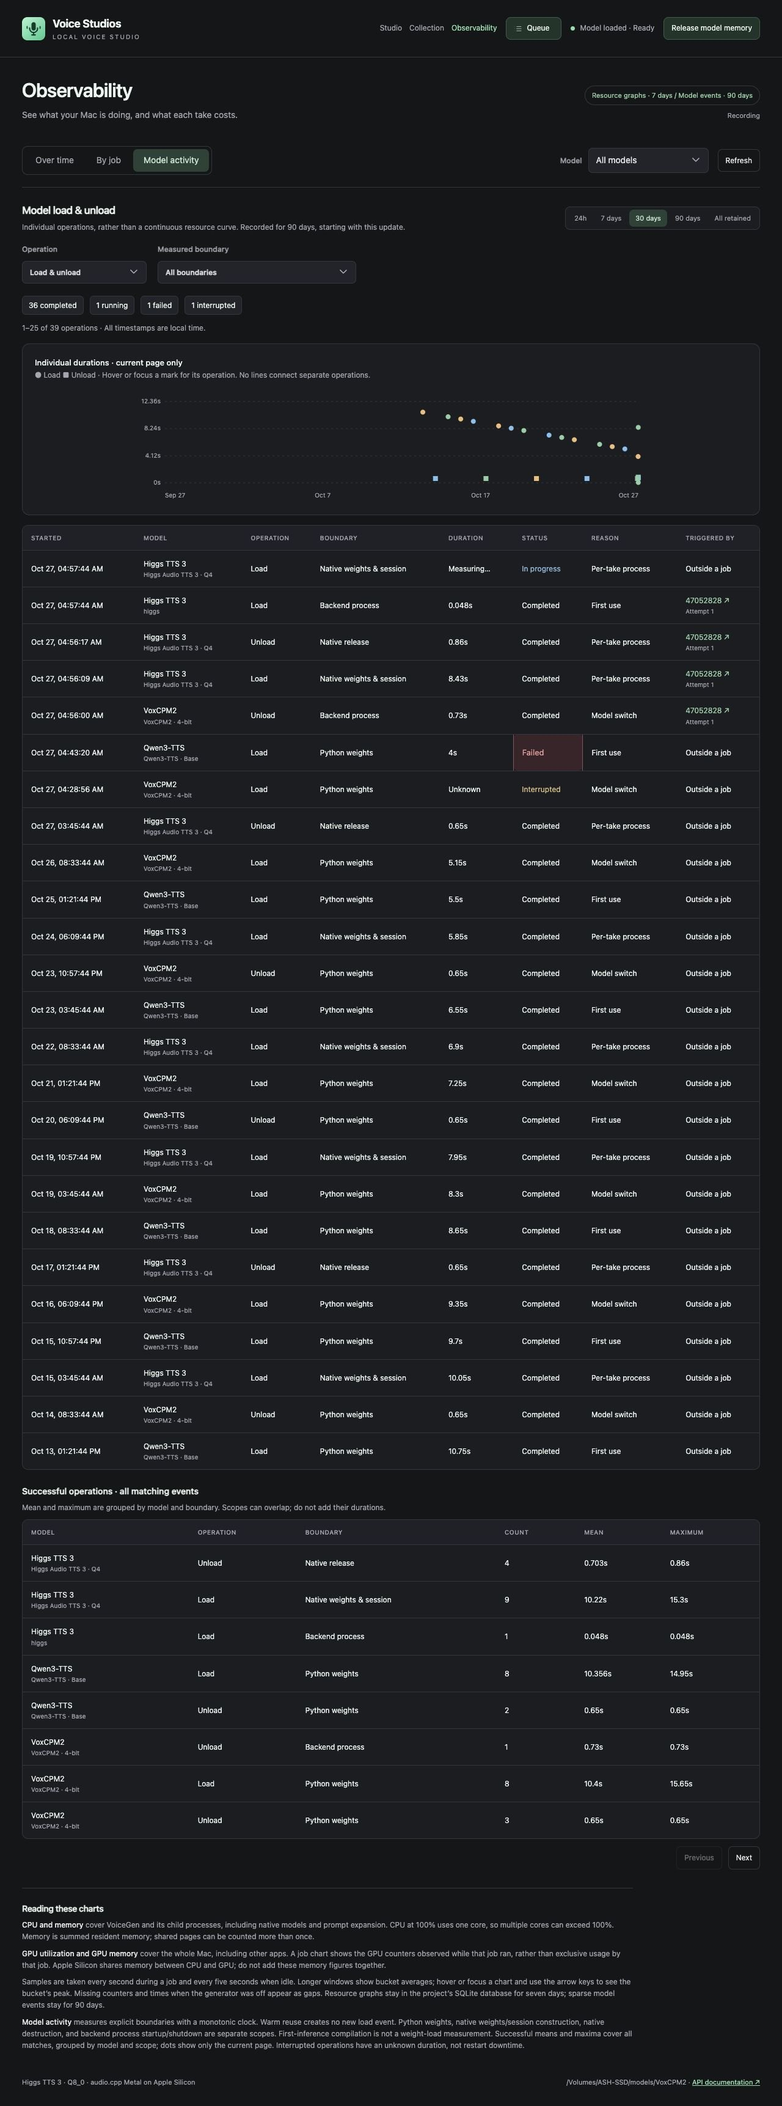
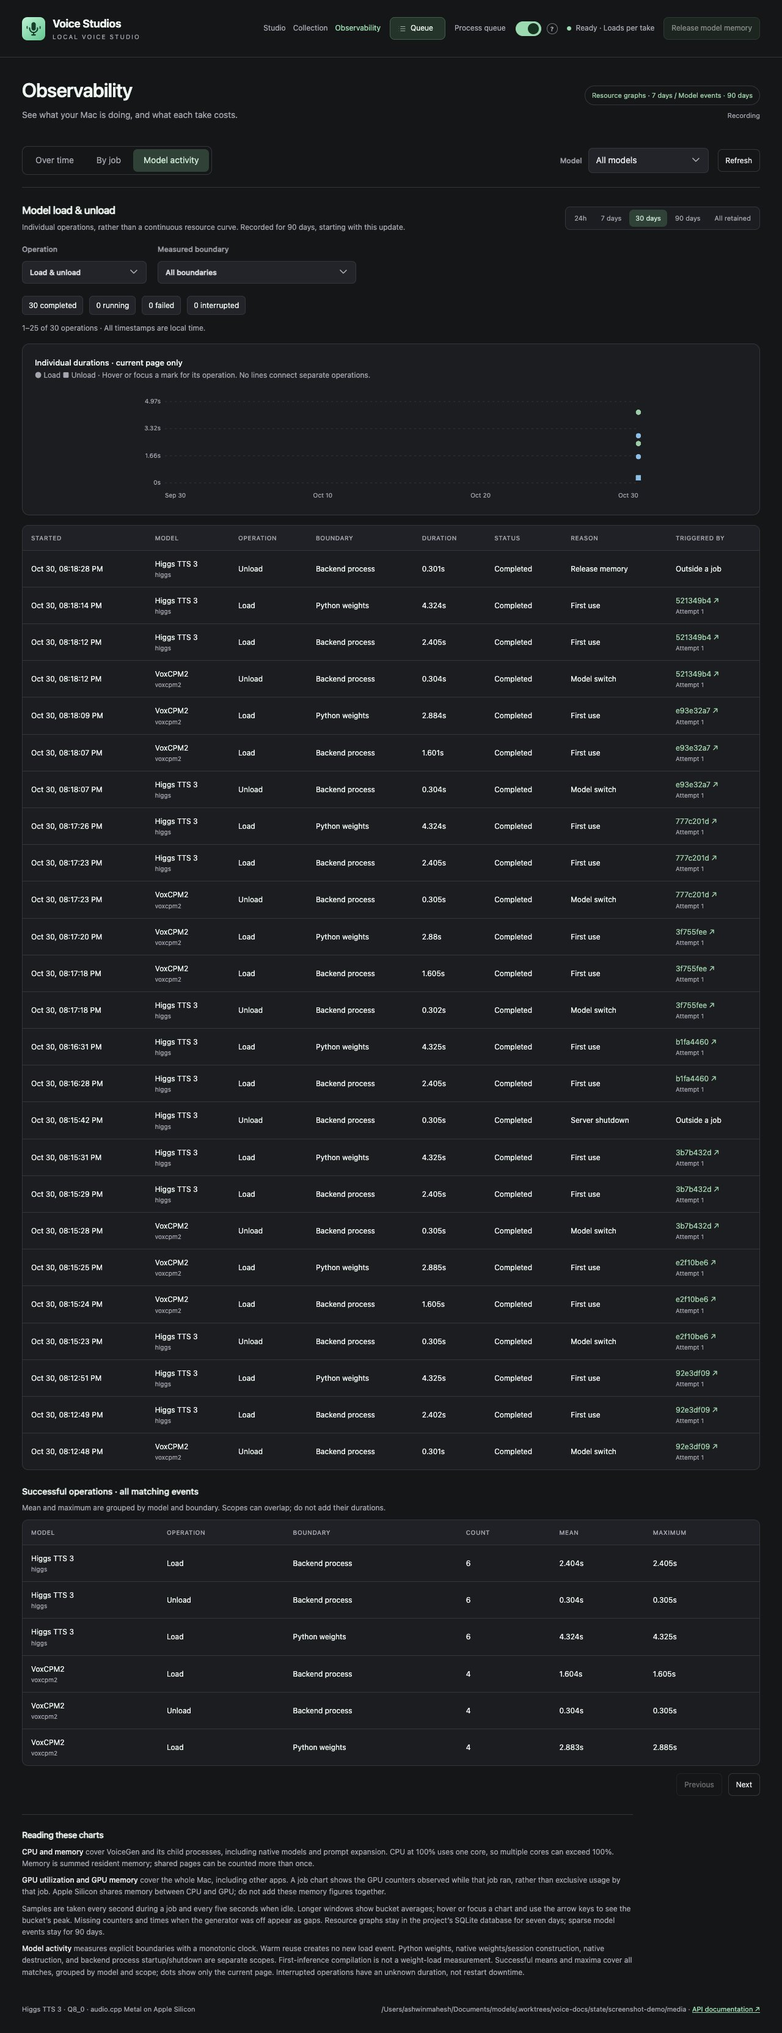
Refresh README, Quick Start and screenshots for today's Studio changes
Describe estimated progress, the shared header's Process queue switch
and Release model memory state, Collection rows with the trash icon,
voice names on History takes and queue rows, and the queue window's icon
actions and header. Shorten the README's studio tour. Regenerate the
README screenshots from a fixture run with a fake speech engine.

diff --git a/QUICKSTART.md b/QUICKSTART.md
@@ -68,24 +68,26 @@ To create a new voice from a description, choose a set-up VoxCPM2, Qwen3-TTS, or
 1. **Choose a voice.** Open **Record lines** and use **Voice source** to select **Saved voice** or **Upload reference audio**. Built-in speakers are another source when a suitable Qwen model is set up. For Higgs, use a saved or uploaded recording. Uploads must be 1–30 seconds and at most 25 MiB. Browse voice catalog opens Collection in a separate tab, keeping your recording form open.
 2. **Enter the exact reference transcript.** These are the words already spoken in the recording, separate from your new dialogue. Uploaded voices can fill them automatically; review and correct the detected words. Higgs and Fish require it. For a saved voice, choose **Save transcript to voice**, or select Generate to save your edit automatically before submitting. The transcript remains after generation and reloads with the voice.
 3. **Enter the new dialogue.** Start with a short passage so you can judge the voice, accent, and delivery.
-4. **Choose the performance settings.** Higgs shows **Emotion**, **Prosody**, and **Style** above the dialogue. It takes its accent from the recording; free-text accent directions are unsupported. Vox Auto allows new text directions and switches to flexible conditioning when used. Enter an **Emotion & delivery** direction to enable its expansion preview. With no new directions and an exact transcript, Auto follows the recording instead. Combined and Continue performance keep direction fields disabled. Disabled fields have a lighter grey background and a brief reason as their placeholder when empty. Existing values are kept. Helper text gives the full reason and a supported alternative. [See the disabled fields](docs/images/disabled-fields.jpg). Hover over a grey **?** icon for an explanation, focus it with the keyboard, or tap it on a phone. Expand **Advanced settings** for additional options.
+4. **Choose the performance settings.** Higgs shows **Emotion**, **Prosody**, and **Style** above the dialogue. It takes its accent from the recording; free-text accent directions are unsupported. Vox Auto allows new text directions and switches to flexible conditioning when used. Enter an **Emotion & delivery** direction to enable its expansion preview. With no new directions and an exact transcript, Auto follows the recording instead. Combined and Continue performance keep direction fields disabled. Disabled fields show a short reason and keep their values; helper text suggests a supported alternative ([example](docs/images/disabled-fields.jpg)). Hover over a grey **?** icon for an explanation, focus it with the keyboard, or tap it on a phone. Expand **Advanced settings** for additional options.
 5. **Try prompt expansion if available.** With the switch on, select **Preview expanded guidance**, review it, and apply it or keep your original. Higgs instead offers **Suggest delivery control**: enter a short acting direction such as “quietly amused” or “more expressive intonation” to suggest one native Emotion, Prosody, or Style setting. The preview shows your written direction. If nothing changes, Apply is disabled and the preview explains how to proceed. For supported batches of different voice designs, the LLM can refine each option automatically.
 6. **Choose 1–5 options** and select **Generate speech**. The default is two. Every new click chooses a fresh random base seed; each option shows its actual seed. For a fixed seed, turn off **Advanced settings → Random seed each generation** and enter a number. [View the seed controls](docs/images/random-seed-settings.jpg). With Higgs or another recorded voice, options are alternative takes of the same speaker. Supported voice-design modes can explore different descriptions.
-7. **Listen and save.** Elapsed time appears below Generate and in the Listening room. It ticks every second, including time waiting, continues through all options in a batch, and stops at the final duration. Reloads retain that timing. Download a take or choose **Save voice** to reuse it for more lines. Complete takes of at most 30 seconds automatically supply their spoken line as the saved transcript, without performance tags. Longer or potentially cut-off takes need the exact words in the saved excerpt.
+7. **Listen and save.** While a take renders, the Listening room shows an estimated percentage and time left, such as “~62% · about 1 min left”, based on how long recent takes of the same model took. Elapsed time appears below Generate and in the Listening room. It ticks every second, including time waiting, continues through all options in a batch, and stops at the final duration. Reloads retain that timing. Download a take or choose **Save voice** to reuse it for more lines. Complete takes of at most 30 seconds automatically supply their spoken line as the saved transcript, without performance tags. Longer or potentially cut-off takes need the exact words in the saved excerpt.
 
 For Higgs, new UI settings use a **2,000-token Audio limit**. Existing saved settings keep their value; use **Advanced settings → Apply recommended defaults** to update them. If one option reports “reached max_tokens before EOC,” its audio did not finish. Keep the successful option and choose **Use higher audio limit** on the failed card to prepare one replacement. Retry alone keeps the old limit. For longer passages, a smaller **Higgs text chunk size**, such as 400 characters, can reduce the budget needed per chunk; it can also change delivery.
 
-Prompt expansion uses the separate local Qwen3.5-2B LLM, with rules tailored to each speech model. It sees written voice and delivery directions, not your dialogue, reference transcript, or audio. Some modes do not support it. See [voice quality tips](VOICE_QUALITY.md) for choosing references and balancing expression against accent and voice consistency.
+See [voice quality tips](VOICE_QUALITY.md) for choosing references and balancing expression against accent and voice consistency.
 
 You can visit Collection or Observability, close the tab, or reload while a recording is running. A recording strip shows progress on each page; choose **Return to recording**, or **Listen to recording** after it finishes. These links go directly to the listening room, including on a phone. Your batch, selected option, model, form and elapsed time are restored; the selected take is marked **Selected**. Temporary connection problems retry automatically, with **Reconnect now** available, without submitting another recording. Use **Resources & logs** on an option or selected take, then **Return to recording** to get back. A queued take shows a waiting message until resource sampling starts.
 
 For Higgs, search the **Emotion**, **Prosody**, and **Style** inputs and select an option with the mouse or arrow keys and Enter. You can also type a direction such as “Speak in a hushed whisper,” click **Suggest control**, review it, and **Apply control**. Or use **Delivery direction** below to suggest a change alongside your selected controls. Suggestions require Prompt expansion to be on and preserve the other categories. Empty inputs follow the recording. Turning expansion off keeps selected native controls and pauses unresolved custom drafts; turning it back on restores those drafts. Higgs supports a fixed tag vocabulary, so a direction may have no matching option.
 
-Open **Collection** to start in **Voice library**, the left tab. Name, describe, tag, and search your voices there. **Upload voice** transcribes a 1–30 second recording locally before saving. Play it back, correct the detected words, then save the voice. Turn **Automatically transcribe** off to enter the words yourself. Existing installations can add the small transcriber with `make setup-transcriber`; new `make setup` includes it. **History** shows generated takes. Click the Voice Studios icon, title, or subtitle at the top left to return to Studio.
+Open **Collection** to start in **Voice library**, the left tab. Name, describe, tag, and search your voices there. **Upload voice** transcribes a 1–30 second recording locally before saving. Play it back, correct the detected words, then save the voice. Turn **Automatically transcribe** off to enter the words yourself. Existing installations can add the small transcriber with `make setup-transcriber`; new `make setup` includes it. **History** shows generated takes, each labelled with its voice: the saved voice's name, “Uploaded voice”, or “Designed voice”. Each entry is a single row with its player and buttons on one line. Click the Voice Studios icon, title, or subtitle at the top left to return to Studio.
 
-To remove a voice or take, choose its **Delete** button, check the item named in the confirmation popup, and confirm **Delete**. Cancel or Escape keeps it. Turn on the **Show deleted** switch and choose **Restore** within 24 hours to bring an entry back. After that, the generator automatically removes its files from disk. If the generator is off, cleanup resumes next time you start it; unfinished jobs can delay removal. Copies saved separately as other voices or takes are kept. See [retention details](docs/collection-retention.md).
+To remove a voice or take, choose its trash icon (**Delete**), check the item named in the confirmation popup, and confirm **Delete**. Cancel or Escape keeps it. Turn on the **Show deleted** switch and choose **Restore** within 24 hours to bring an entry back. After that, the generator automatically removes its files from disk. If the generator is off, cleanup resumes next time you start it; unfinished jobs can delay removal. Copies saved separately as other voices or takes are kept. See [retention details](docs/collection-retention.md).
 
-Open **Queue** in the header to monitor progress. Drag a left-side handle to reorder waiting jobs, or focus it and use the up/down arrow keys. **Run Now** moves a waiting job first, ahead of other immediate jobs; the current batch finishes before it starts. The **Generate immediately** switch is on by default: your request runs next after the active batch, ahead of ordinary waiting jobs, and Generate stays busy until your options finish. Turn the switch off to submit more work to the normal queue. It does not change jobs already submitted or interrupt work running. Pending jobs survive restarts. The generator switches models automatically; a missing model stays blocked with a setup hint while other work continues. **Pause queue** holds normal waiting work; immediate jobs can still run.
+Open **Queue** in the header to monitor progress. Each row shows its model, voice, and the running take's estimated percentage. Row actions are icon buttons; hover or focus one to see its name (Monitor, Run Now, Remove, View all options, or Resources & logs). Drag a left-side handle to reorder waiting jobs (the row lifts as you drag), or focus it and use the up/down arrow keys. **Run Now** moves a waiting job first, ahead of other immediate jobs; the current batch finishes before it starts. The **Generate immediately** switch is on by default: your request runs next after the active batch, ahead of ordinary waiting jobs, and Generate stays busy until your options finish. Turn the switch off to submit more work to the normal queue. It does not change jobs already submitted or interrupt work running. Pending jobs survive restarts. The generator switches models automatically; a missing model stays blocked with a setup hint while other work continues. To pause, switch off **Process queue** in the page header or the Queue window's header (beside the amber **Clear pending** button and **×**). The current take finishes and normal waiting work stays saved; **Generate immediately** and **Run Now** jobs still run.
+
+**Release model memory** in the header unloads the speech model between sessions. It is greyed out while a take is generating, and when no model is loaded (its tooltip says “No model loaded”). The next take loads the model again.
 
 ### Check resource use
 
@@ -137,7 +139,7 @@ HTTP 202 means the job was saved. Copy the returned job `id` and check it:
 curl --fail-with-body http://localhost:5743/api/jobs/JOB_ID_HERE
 ```
 
-Wait for `status` to become `done`. If it becomes `error`, read the `error` field. A finished job includes `result.audio_url` for playback and `result.id` for the output. Replace `OUTPUT_ID_HERE` with that output ID to download:
+Wait for `status` to become `done`; while it runs, `progress.percent` and `progress.eta_seconds` give the estimate. If it becomes `error`, read the `error` field. A finished job includes `result.audio_url` for playback and `result.id` for the output. Replace `OUTPUT_ID_HERE` with that output ID to download:
 
 ```sh
 curl --fail-with-body \

diff --git a/README.md b/README.md
@@ -8,56 +8,32 @@ The studio supports **seven speech models**, with **Higgs TTS 3 as the default**
 
 ## Inside the studio
 
-Studio, Collection, and Observability share the same navigation, Queue button, service status, and memory-release control.
+Studio, Collection, and Observability share one header: navigation, **Queue**, a **Process queue** switch, the service status, and **Release model memory**, which is greyed out with a “No model loaded” tooltip when there is nothing to release. Click the Voice Studios name to return to Studio. Screenshots use benign demonstration records and fake inference; percentages and timings are not model benchmarks.
 
-Click the Voice Studios icon, title, or subtitle in the header to return to Studio.
+**Studio:** use **Design a voice** to create a character from a description, or **Record lines** to reuse a saved voice, an uploaded recording, or a built-in speaker. Enter the dialogue, direct the performance with the model's own controls, and generate 1–5 options to compare. While a take renders, the listening room shows an estimated percentage and time left, such as “~62% · about 1 min left”, based on how long recent takes of the same model took. A recording strip keeps that progress visible on other pages, and returning restores your batch and chosen option. [See the return flow](docs/recording-return-ux.md).
 
-Screenshots use benign demonstration records and fake inference; displayed timings are not model benchmarks.
+![Studio with a saved Higgs voice: option 1 is ready and option 2 is generating](docs/images/studio-page.jpg)
 
-**Generate:** choose or design a voice, enter dialogue, direct the performance, and audition the results.
+**Collection:** **Voice library** holds saved and uploaded voices with names, descriptions, and searchable tags; **History** holds generated takes, each labelled with the voice it used. Every entry is a row with its player and actions on one line. The trash icon deletes an entry after a [confirmation](docs/images/collection-delete-confirmation.jpg), and **Show deleted** lets you restore it within 24 hours; after that its files are removed. Uploaded voices are [transcribed locally](docs/transcription.md). See [retention and shared copies](docs/collection-retention.md).
 
-Use **Design a voice** to create a character, or **Record lines** to reuse one. Record lines has a **Voice source** menu for saved voices, uploaded reference audio, and built-in speakers when available. Browse voice catalog opens your Collection in a new tab so your recording form stays open.
+![Collection voice library with four demonstration voices](docs/images/collection-page.jpg)
 
-An elapsed timer below Generate and in the Listening room updates every second through waiting and generation, then keeps the final duration. Reference transcripts stay with saved voices; you can save an edit directly or let Generate save it before submitting. Higgs has searchable Emotion, Prosody, and Style inputs. Choose an option, or type a custom direction and preview a supported control with the local LLM. Accent comes from the reference recording.
+**Queue:** each row shows its model, the voice (a saved voice's name, “Uploaded voice”, or “Designed voice”), and the running take's estimated progress. Row actions are icon buttons (Monitor, Run Now, Remove, and others) that name themselves on hover. Drag a row by its handle to reorder waiting jobs; it lifts while you drag. Like Image Studio, the window's header has a **Process queue** switch, an amber **Clear pending** button, and **×** to close. **Generate immediately**, on by default, runs your request right after the current take. Switching off **Process queue** holds ordinary waiting work; **Generate immediately** and **Run Now** jobs still run.
 
-A recording strip keeps progress visible while you browse Collection or Observability, then offers **Listen to recording** when it finishes. Returning restores your batch, selected option, and elapsed time; on a phone, the return link goes straight to the listening room. Temporary connection losses reconnect automatically. Each option has **Resources & logs**. [See the return flow](docs/recording-return-ux.md).
+![Queue window with a running take's progress and waiting jobs for several voices](docs/images/queue-modal.jpg)
 
-Higgs starts new UI settings with a 2,000-token audio limit. If one option cannot finish within its limit, the others stay available; the failed card can prepare a single replacement with a higher limit. Advanced settings also offer native text chunk size for longer passages.
+**Observability:** chart CPU, memory, and GPU use over windows from five minutes to seven days, filter by model, or inspect one job's resources and logs. GPU figures cover the whole Mac. **Model activity** keeps 90 days of model load and unload durations. [What the measurements mean](docs/observability.md).
 
-**Design a voice** stays visible when the current model needs a recording, such as Higgs. Open it and choose a set-up VoxCPM2, Qwen3-TTS, or MOSS VoiceGenerator from the model menu. If none is set up, the tab stays disabled and its tooltip lists those alternatives.
-
-![Full Generate page with Higgs performance controls and audio playback](docs/images/studio-page.jpg)
-
-**Collection:** browse previous takes or save and upload voices with names, descriptions, and searchable tags. Search, tag selection, sort order, and page size share a compact row; search and select existing tags to find voices matching any of them.
-
-Uploaded voices are transcribed locally with a small CPU model. Listen, correct the detected words, and save them with the voice; automatic transcription can also be switched off. [Upload transcription](docs/transcription.md) explains setup and API use.
-
-Voice library appears first and opens by default; History holds your generated takes. Both offer **Delete** with a confirmation popup. Use the **Show deleted** switch and **Restore** within 24 hours to bring an entry back. After 24 hours, the generator automatically removes its audio and metadata from disk. Cleanup waits for unfinished jobs that still need the recording. [Retention and shared copies](docs/collection-retention.md).
-
-[View the deletion confirmation](docs/images/collection-delete-confirmation.jpg).
-
-![Full Collection page with a saved voice, search, and tags](docs/images/collection-page.jpg)
-
-**Queue:** drag waiting jobs into order, choose **Run Now** to run one next, monitor progress, or remove pending work. Running takes show an estimated percentage (for example ~62%) based on how long recent takes of the same model took, in the queue and in the listening room. The studio's default **Generate immediately** switch runs next after the current take and keeps Generate busy until your options finish. Turn it off to keep adding ordinary queued jobs. To pause the queue, switch off **Process queue** in the header. The current take finishes, then waiting jobs stay saved until you switch it back on. **Generate immediately** and **Run Now** jobs still run while paused.
-
-![Full page with the Queue modal open](docs/images/queue-modal.jpg)
-
-**Observability:** chart CPU, memory, and GPU usage over time, filter by model, or inspect a job's resource use. Choose windows from five minutes to seven days. History is saved automatically while the generator runs; GPU figures cover the whole Mac. Each job view also shows sampled stages and any retained generation log. **Model activity** keeps a separate 90-day history of model load/unload durations, with individual events, filters, and job links.
-
-![Full Observability page with demonstration resource history](docs/images/observability-page.jpg)
+![Observability with demonstration resource history](docs/images/observability-page.jpg)
 
 <details>
 <summary>Model load and unload history</summary>
 
-![Full Model activity page with demonstration timing events](docs/images/model-activity.jpg)
+![Model activity with demonstration timing events](docs/images/model-activity.jpg)
 
 </details>
 
-Screenshots use demo data. Model files and recordings can live on an external SSD. Source code, Python environments, and one shared SQLite queue stay together in the project folder on your Mac. See [storage setup](QUICKSTART.md#1-install-and-set-up).
-
-Setup automatically reuses a compatible installed Python, or downloads one into the project when needed. You do not need to install Python 3.11 and 3.14 yourself. Starting the studio uses the environments already set up and does not download anything. `make serve` exits with setup instructions unless at least one model has its verified files and compatible runtime ready.
-
-You can safely rerun `make setup`: verified model downloads are reused, while dependencies and support files are checked and updated in place as needed. Choose **q** in the model menu or press **Ctrl+C** during setup to cancel; existing downloads, voices, recordings, and queued jobs are kept.
+Model files and recordings can live on an external SSD; source code, Python environments, and the shared SQLite queue stay in the project folder. Setup reuses a compatible installed Python or downloads one into the project, and is safe to rerun: verified downloads are reused. `make serve` never downloads anything and exits with setup instructions unless at least one model is ready. See [storage setup](QUICKSTART.md#1-install-and-set-up).
 
 ## Getting better voices and performances
 
@@ -79,9 +55,7 @@ The optional prompt expander uses **Qwen3.5-2B, a 4-bit local language model**. 
 
 Expansion follows different rules for each supported model and mode. The studio shows the original and expanded guidance. The LLM receives written voice and delivery directions, while dialogue, reference transcripts, and recordings stay out of its input. Suggestions still need listening checks; extra wording does not always produce a better performance.
 
-With a saved or uploaded voice in **Vox Auto**, enter an Emotion & delivery direction to preview its expansion. Auto then uses flexible voice conditioning. With no new directions and an exact transcript, Auto follows the recorded performance; the preview explains that choice. Empty disabled fields show a short reason inside the box; helper text explains how to enable a supported alternative. Existing typed values are kept.
-
-For **Higgs**, enter a short acting direction and select **Suggest delivery control**. The LLM chooses one supported Emotion, Prosody, or Style setting; it does not write a longer prose prompt. For example, “more expressive intonation” can suggest `expressive_high`. The preview shows what you typed and makes **No change suggested** explicit. Accent comes from the reference recording, and can still drift.
+Each model gets its own expansion rules: Vox Auto can preview an expanded Emotion & delivery direction, and Higgs uses **Suggest delivery control** to pick one supported Emotion, Prosody, or Style setting rather than writing prose. See [prompt expansion details](docs/voice-prompt-expansion.md).
 
 ## Speech models
 
